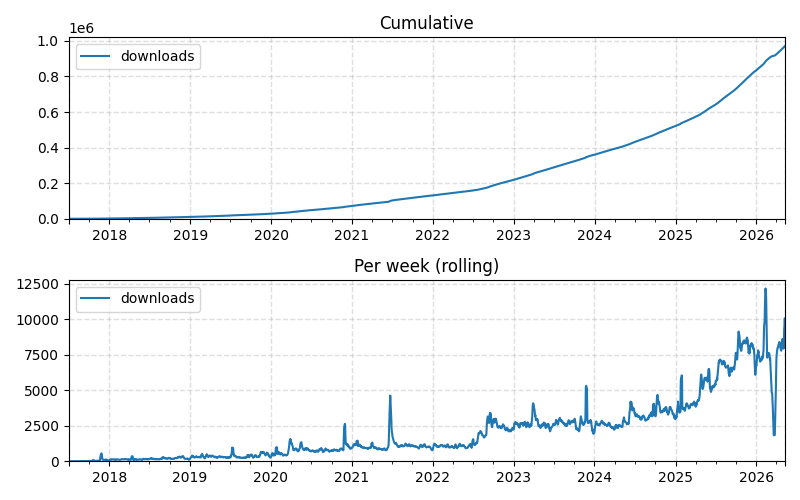
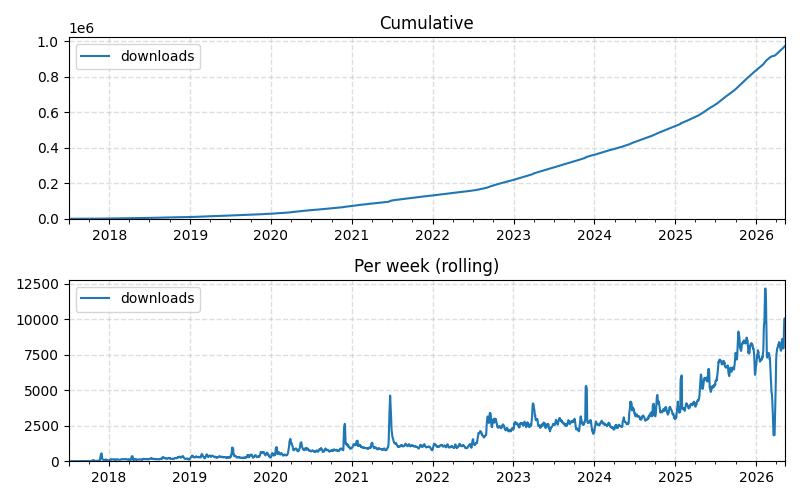
Deploying to gh-pages from @ ActivityWatch/activitywatch.github.io@3dd0930ee359349901a185e8b0423fb35e4007ce 🚀

diff --git a/contributors/index.html b/contributors/index.html
@@ -6645,7 +6645,7 @@
 
 <p>
   <small>
-    <i>Last updated: 2026-05-10 04:31:56 +0000</i>
+    <i>Last updated: 2026-05-11 04:44:36 +0000</i>
   </small>
 </p><hr>
 